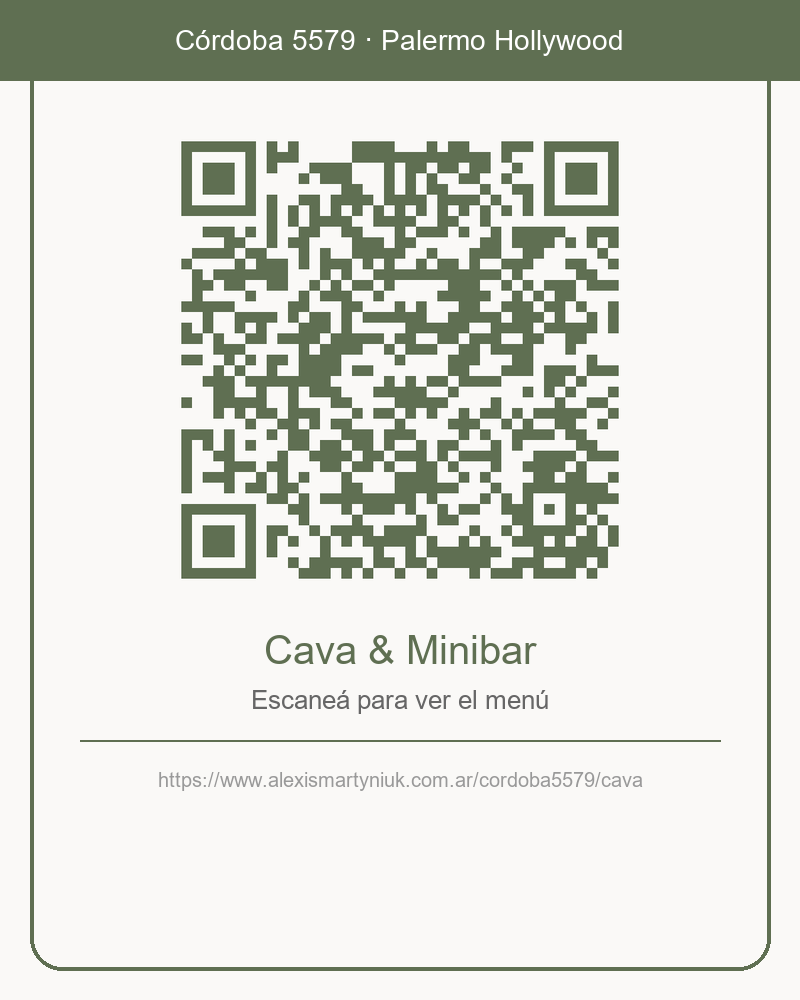
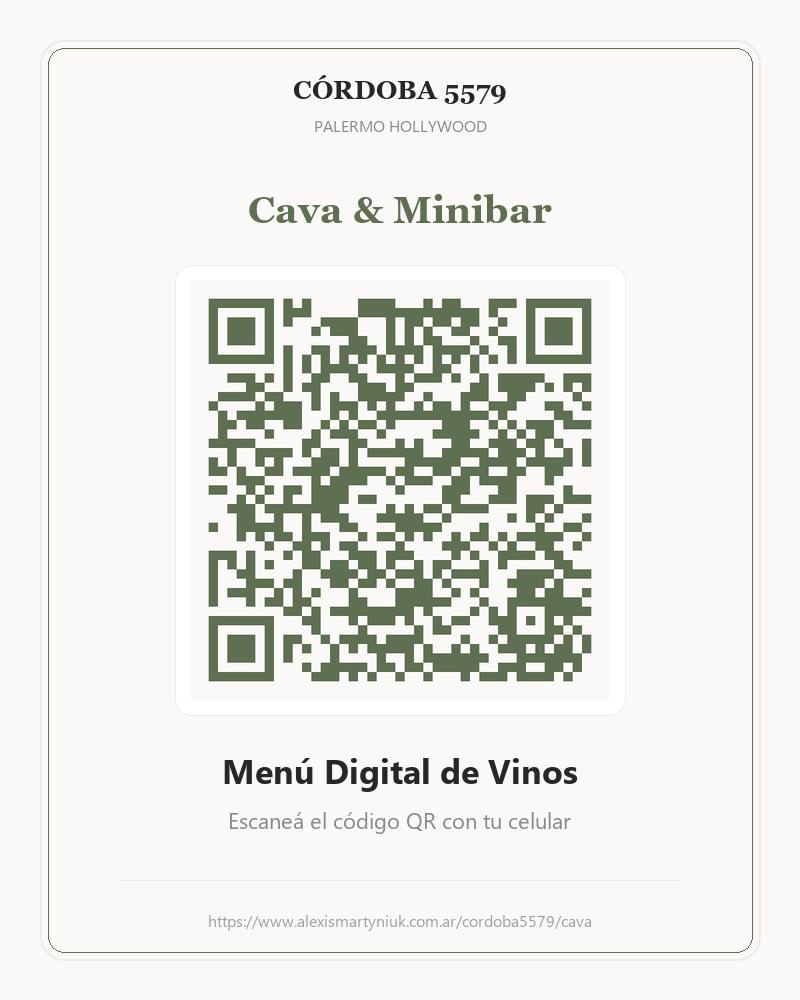
UI: Redesign print-ready QR cards to match brand aesthetic

diff --git a/scripts/generate_qrs.py b/scripts/generate_qrs.py
@@ -26,25 +26,25 @@ CODES = [
         "name": "cava",
         "url": f"{BASE_URL}/cava",
         "label": "Cava & Minibar",
-        "sublabel": "Escaneá para ver el menú",
+        "sublabel": "Menú Digital de Vinos",
         "color": "#5F6F52",         # Olive green
         "bg": "#FAF9F7",
     },
     {
         "name": "checkin",
         "url": f"{BASE_URL}/checkin",
-        "label": "Check-In Digital",
-        "sublabel": "Portal del Huésped",
-        "color": "#3B5998",         # Deep blue
-        "bg": "#F0F4FF",
+        "label": "Check-In Autónomo",
+        "sublabel": "Guía de Ingreso y WiFi",
+        "color": "#5F6F52",         # Olive green
+        "bg": "#FAF9F7",
     },
     {
         "name": "whatsapp",
         "url": WHATSAPP_URL,
         "label": "Contacto Directo",
-        "sublabel": "WhatsApp con Jorge",
-        "color": "#25D366",         # WhatsApp green
-        "bg": "#F0FFF4",
+        "sublabel": "WhatsApp Anfitrión",
+        "color": "#5F6F52",         # Olive green
+        "bg": "#FAF9F7",
     },
 ]
 
@@ -71,54 +71,85 @@ def make_card(code: dict) -> Image.Image:
     card = Image.new("RGBA", (W, H), code["bg"])
     draw = ImageDraw.Draw(card)
 
-    # Header bar
-    draw.rectangle([(0, 0), (W, 80)], fill=code["color"])
+    # Use premium system fonts if available
+    try:
+        font_logo = ImageFont.truetype("georgiab.ttf", 26) # Georgia Bold for serif logo
+        font_title = ImageFont.truetype("georgiab.ttf", 38)
+        font_label = ImageFont.truetype("segoeuib.ttf", 34) # Segoe UI Bold
+        font_sublabel = ImageFont.truetype("segoeui.ttf", 22)
+        font_url = ImageFont.truetype("segoeui.ttf", 16)
+    except IOError:
+        # Fallback to standard times / arial
+        try:
+            font_logo = ImageFont.truetype("timesbd.ttf", 26)
+            font_title = ImageFont.truetype("timesbd.ttf", 38)
+            font_label = ImageFont.truetype("arialbd.ttf", 34)
+            font_sublabel = ImageFont.truetype("arial.ttf", 22)
+            font_url = ImageFont.truetype("arial.ttf", 16)
+        except IOError:
+            font_logo = ImageFont.load_default()
+            font_title = font_logo
+            font_label = font_logo
+            font_sublabel = font_logo
+            font_url = font_logo
 
-    # Rounded card border (simulate with rectangle)
-    border_margin = 30
+    # Draw a premium border
+    margin = 40
+    # Outer thin border
     draw.rounded_rectangle(
-        [border_margin, border_margin, W - border_margin, H - border_margin],
-        radius=32,
+        [margin, margin, W - margin, H - margin],
+        radius=24,
+        outline="#EFEBE4", # Site light border
+        width=2
+    )
+    # Inner elegant border
+    draw.rounded_rectangle(
+        [margin + 8, margin + 8, W - margin - 8, H - margin - 8],
+        radius=16,
         outline=code["color"],
-        width=4
+        width=1
     )
 
-    # Property name in header
-    try:
-        font_title = ImageFont.truetype("arial.ttf", 28)
-        font_label = ImageFont.truetype("arial.ttf", 40)
-        font_sublabel = ImageFont.truetype("arial.ttf", 26)
-        font_url = ImageFont.truetype("arial.ttf", 20)
-    except IOError:
-        font_title = ImageFont.load_default()
-        font_label = font_title
-        font_sublabel = font_title
-        font_url = font_title
+    # Top Brand Label (mimicking the site logo)
+    logo_text = "CÓRDOBA 5579"
+    draw.text((W // 2, 90), logo_text, fill="#252824", font=font_logo, anchor="mm")
+    
+    # Subtitle for logo
+    draw.text((W // 2, 125), "PALERMO HOLLYWOOD", fill="#888888", font=font_url, anchor="mm")
 
-    draw.text((W // 2, 40), "Córdoba 5579 · Palermo Hollywood", fill="white",
-              font=font_title, anchor="mm")
+    # Dynamic Title of the card
+    draw.text((W // 2, 210), code["label"], fill=code["color"], font=font_title, anchor="mm")
 
     # QR code
+    # Ensure QR background matches card background
     qr_img = make_qr(code["url"], code["color"], code["bg"])
-    qr_size = 480
+    qr_size = 420
     qr_img = qr_img.resize((qr_size, qr_size), Image.LANCZOS)
     qr_x = (W - qr_size) // 2
-    qr_y = 120
+    qr_y = 280
+    
+    # Draw a subtle background card container for the QR
+    draw.rounded_rectangle(
+        [qr_x - 15, qr_y - 15, qr_x + qr_size + 15, qr_y + qr_size + 15],
+        radius=16,
+        fill="white",
+        outline="#EFEBE4",
+        width=1
+    )
     card.paste(qr_img, (qr_x, qr_y), mask=qr_img)
 
-    # Label
-    draw.text((W // 2, qr_y + qr_size + 50), code["label"], fill=code["color"],
-              font=font_label, anchor="mm")
-    draw.text((W // 2, qr_y + qr_size + 100), code["sublabel"], fill="#666666",
-              font=font_sublabel, anchor="mm")
+    # Sublabel
+    draw.text((W // 2, 770), code["sublabel"], fill="#252824", font=font_label, anchor="mm")
+    
+    # Action instruction
+    draw.text((W // 2, 820), "Escaneá el código QR con tu celular", fill="#888888", font=font_sublabel, anchor="mm")
 
     # Divider line
-    y_div = qr_y + qr_size + 140
-    draw.line([(80, y_div), (W - 80, y_div)], fill=code["color"], width=2)
+    y_div = 880
+    draw.line([(120, y_div), (W - 120, y_div)], fill="#EFEBE4", width=1)
 
-    # URL hint at bottom
-    draw.text((W // 2, y_div + 40), code["url"][:60], fill="#999999",
-              font=font_url, anchor="mm")
+    # URL at bottom
+    draw.text((W // 2, 920), code["url"], fill="#A0A0A0", font=font_url, anchor="mm")
 
     return card.convert("RGB")
 
